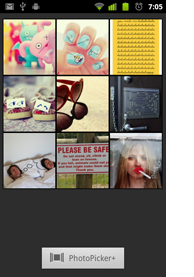
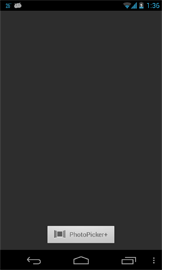
update readme and screenshots in basic project setup

diff --git a/ChutePhotoPicker+/README.md b/ChutePhotoPicker+/README.md
@@ -7,7 +7,7 @@ PhotoPicker+ is a component made for developers to easily integrate it inside th
 Screenshots
 ====
 
-![SS_Slidechute1](https://github.com/chute/photo-picker-plus/raw/master/Android/ChutePhotoPicker+/screenshots/SS_Slidechute1.png)![SS_Slidechute2](https://github.com/chute/photo-picker-plus/raw/master/Android/ChutePhotoPicker+/screenshots/SS_Slidechute2.png)![SS_Slidechute3](https://github.com/chute/photo-picker-plus/raw/master/Android/ChutePhotoPicker+/screenshots/SS_Slidechute3.png)![SS_Slidechute4](https://github.com/chute/photo-picker-plus/raw/master/Android/ChutePhotoPicker+/screenshots/SS_Slidechute4.png)
+![SS_Slidechute1](https://github.com/chute/photo-picker-plus/raw/master/Android/ChutePhotoPicker+/screenshots/SS_Slidechute1.png)![SS_Slidechute2](https://github.com/chute/photo-picker-plus/raw/master/Android/ChutePhotoPicker+/screenshots/SS_Slidechute2.png)![SS_Slidechute3](https://github.com/chute/photo-picker-plus/raw/master/Android/ChutePhotoPicker+/screenshots/SS_Slidechute3.png)
 
 Setup
 ====
